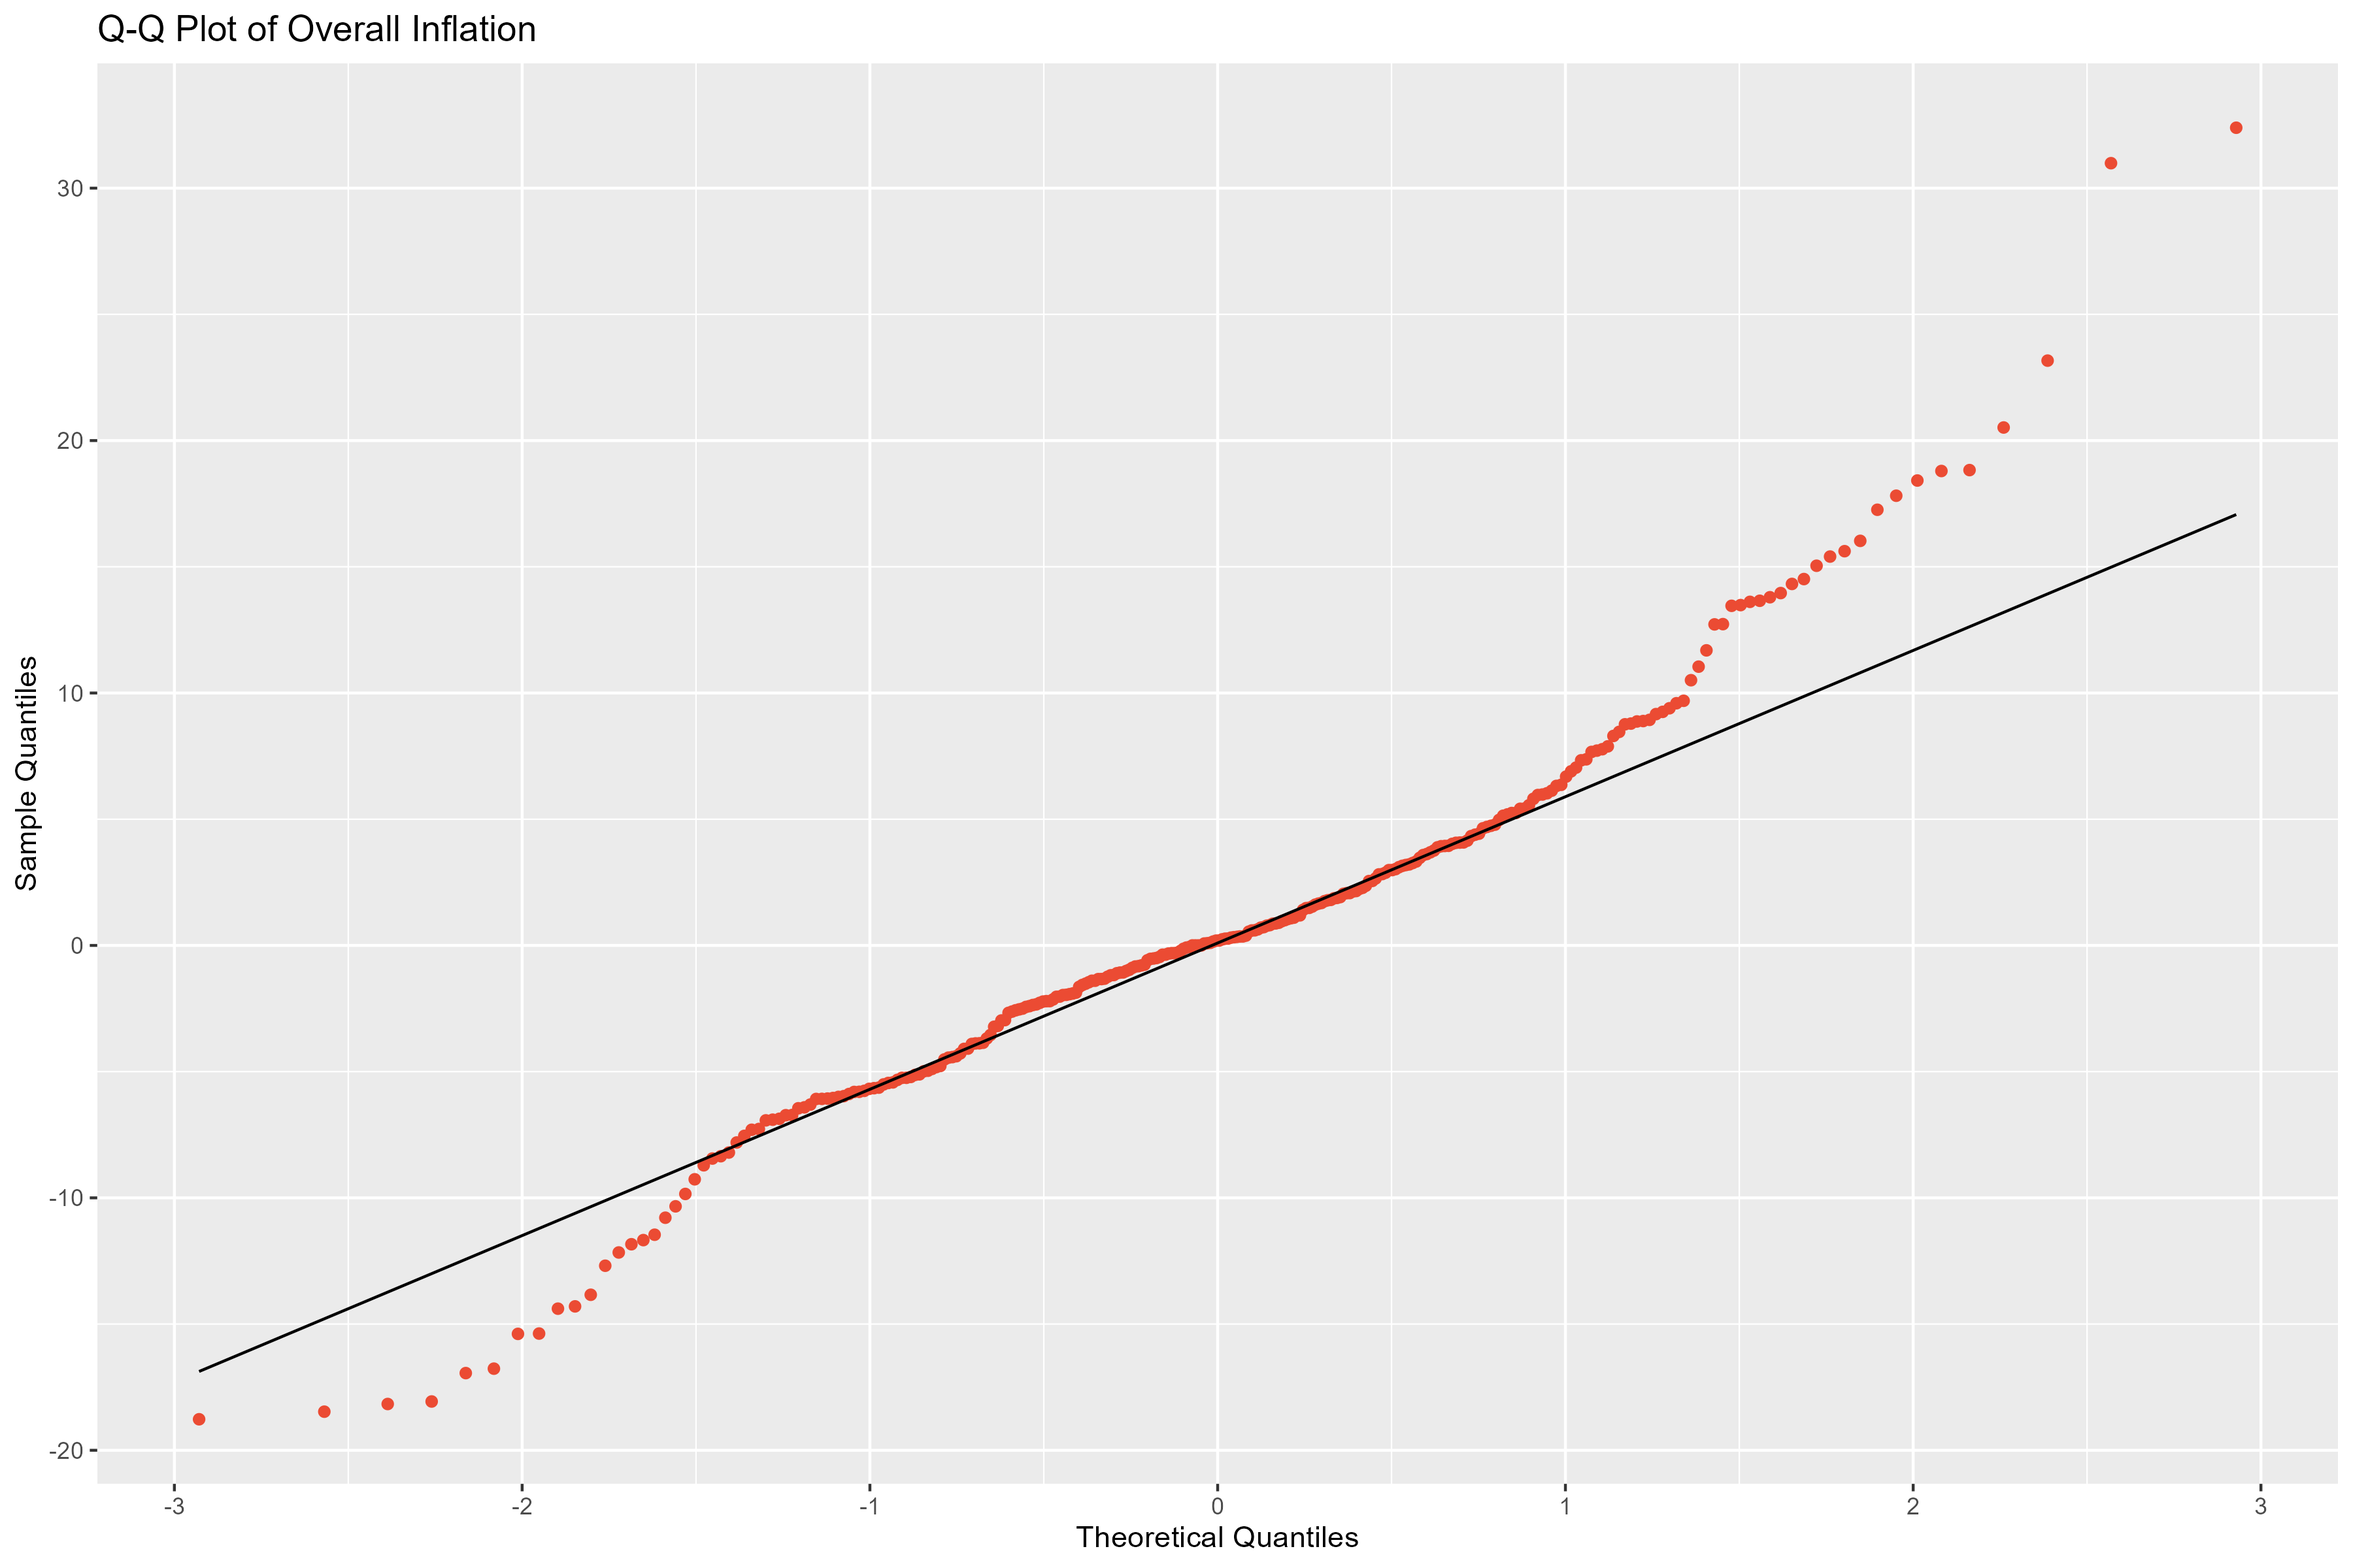
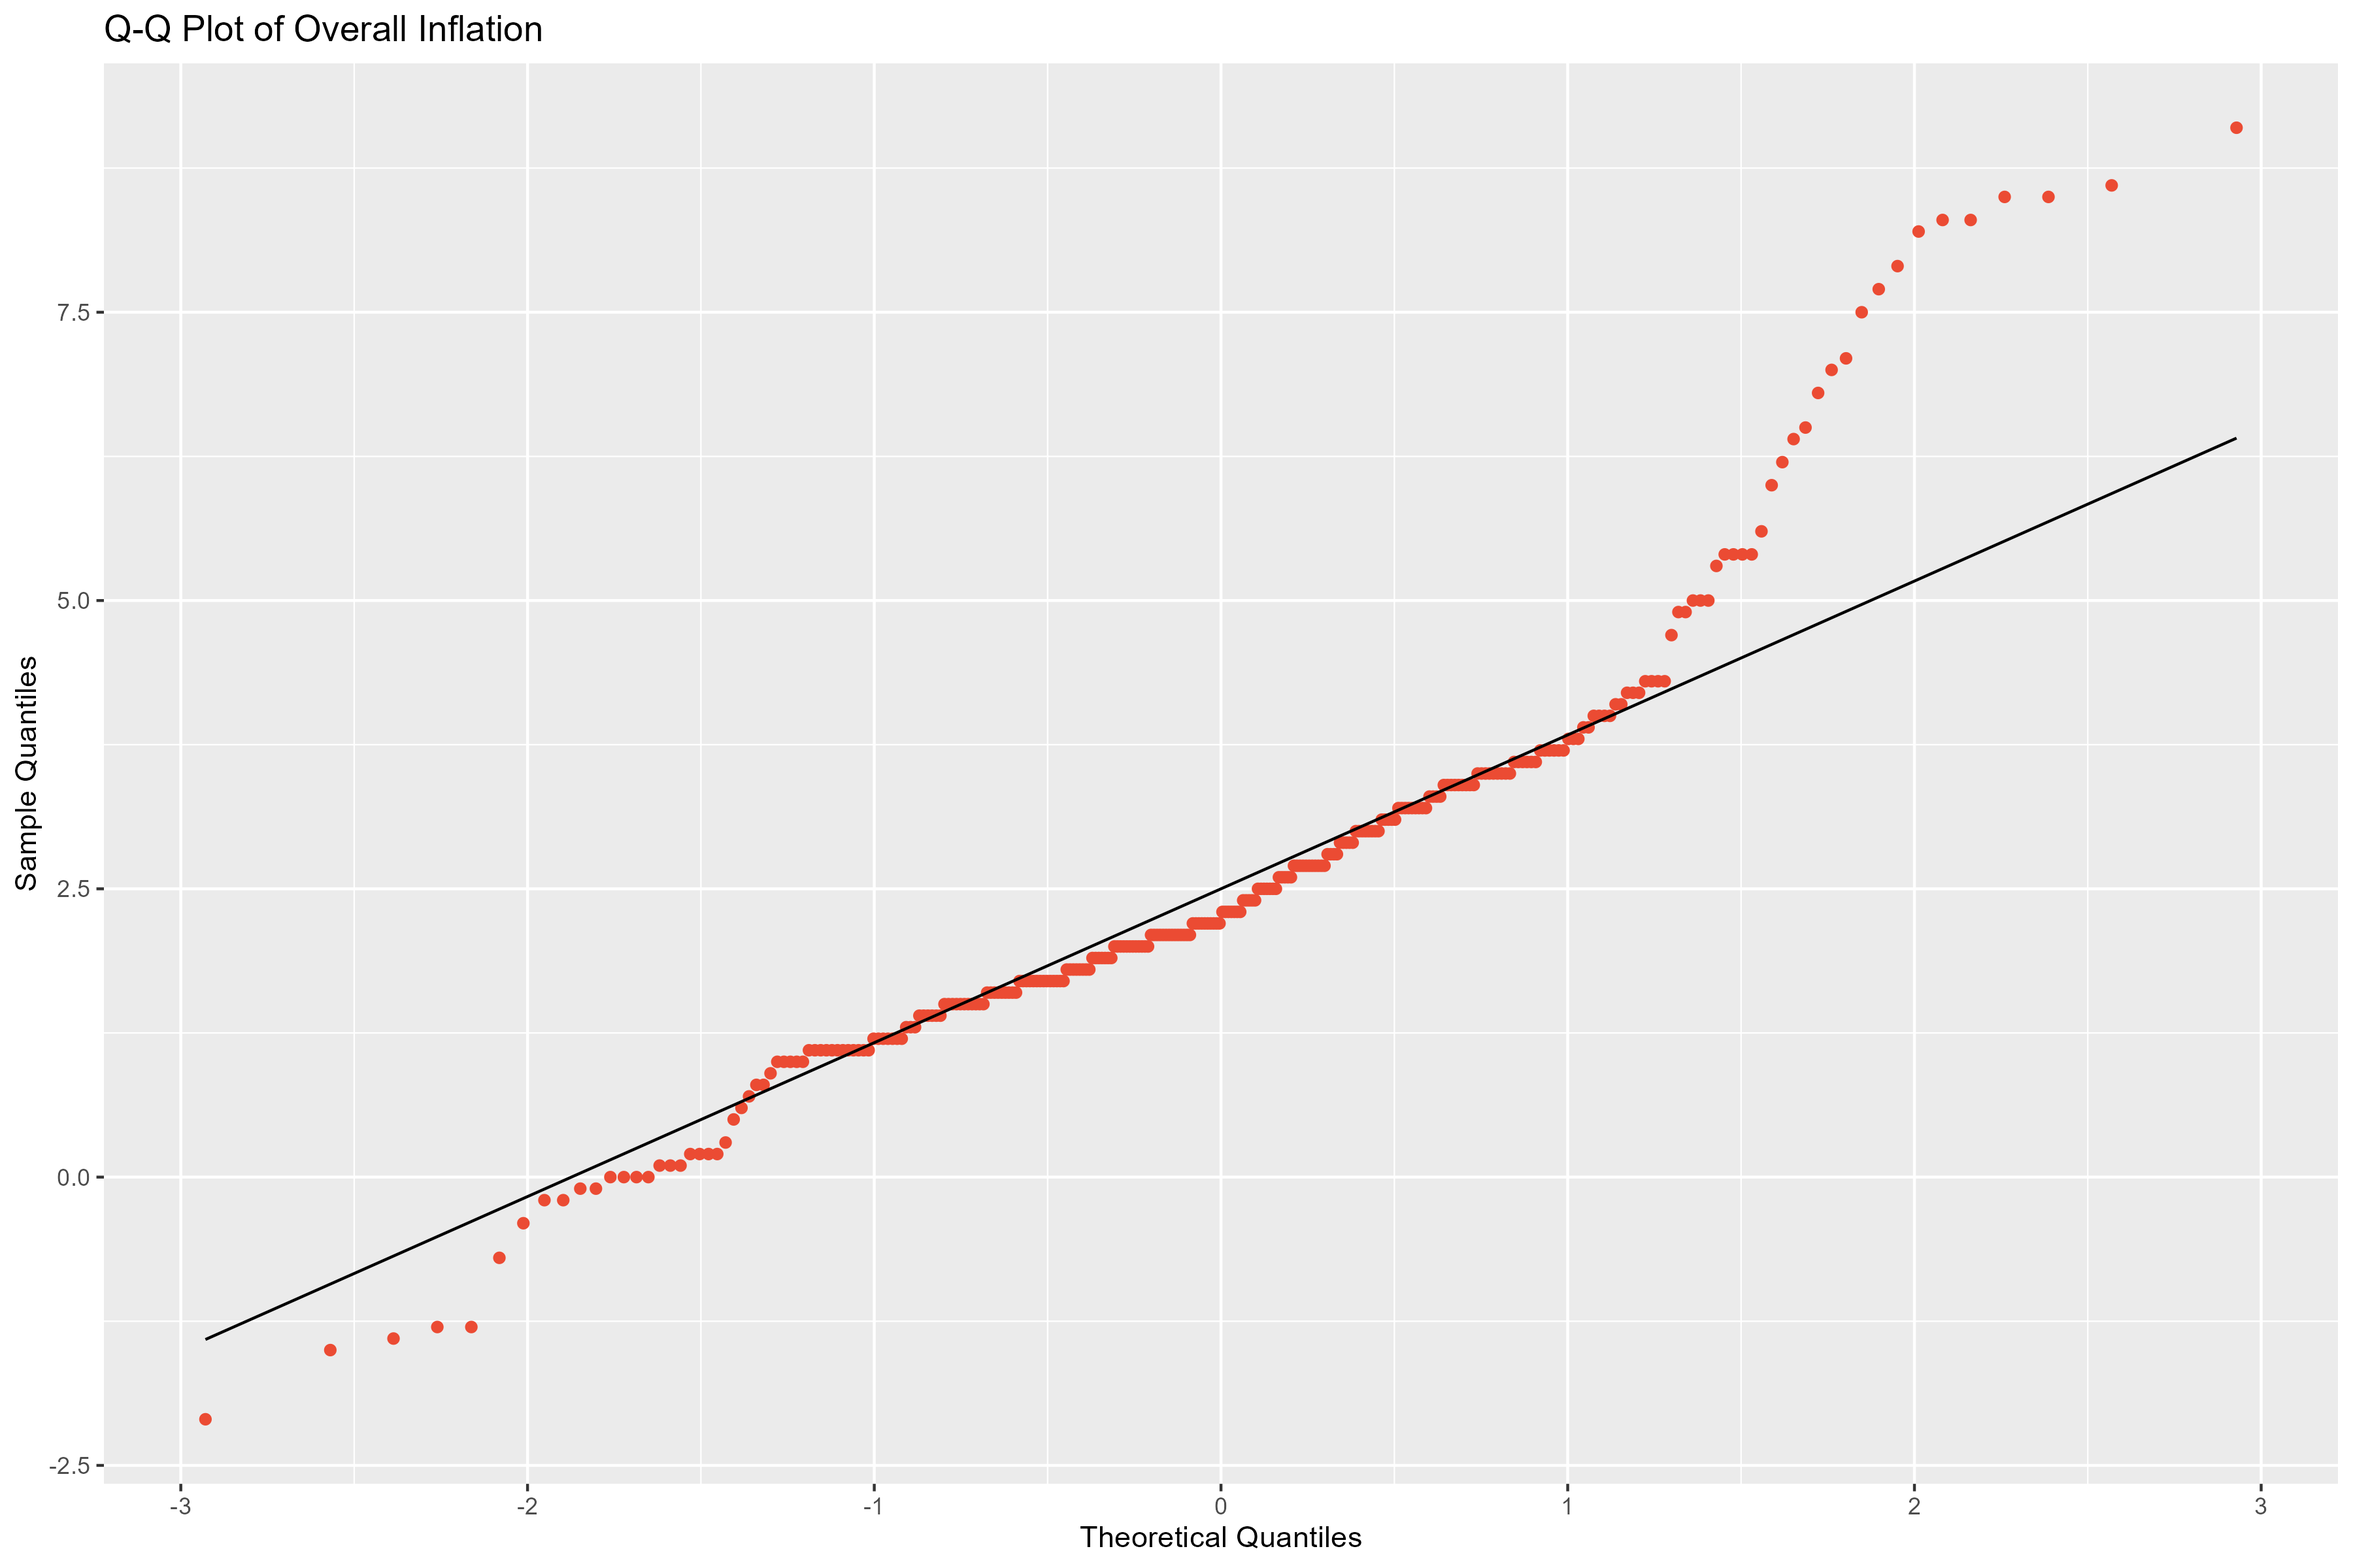
Corrected data selection and reran files

diff --git a/Data Testing/Normality/Normality-Tests-and-Graphs.md b/Data Testing/Normality/Normality-Tests-and-Graphs.md
@@ -1,6 +1,5 @@
 Normality test
 ================
-2024-08-01
 
 ## Overall Inflation Plots
 
@@ -18,7 +17,7 @@ Normality test
     ##  Shapiro-Wilk normality test
     ## 
     ## data:  inflation_long$Overall_Inflation
-    ## W = 0.96006, p-value = 3.193e-07
+    ## W = 0.92195, p-value = 2.869e-11
 
 ### Original No Outliers
 
@@ -26,20 +25,20 @@ Normality test
     ##  Shapiro-Wilk normality test
     ## 
     ## data:  inflation_long_no_outliers$Overall_Inflation_no_outliers
-    ## W = 0.98663, p-value = 0.011
+    ## W = 0.98797, p-value = 0.02248
 
 ### Original Egg Inflation
 
     ## 
     ##  Shapiro-Wilk normality test
     ## 
-    ## data:  inflation_long$Egg_Inflation_Dif
-    ## W = 0.96048, p-value = 3.624e-07
+    ## data:  inflation_long$Egg_Inflation
+    ## W = 0.96006, p-value = 3.193e-07
 
 ### Egg Inflation No Outliers
 
     ## 
     ##  Shapiro-Wilk normality test
     ## 
-    ## data:  inflation_long__egg_no_outliers$Egg_Inflation_Dif_no_outliers
-    ## W = 0.99044, p-value = 0.0691
+    ## data:  inflation_long__egg_no_outliers$Egg_Inflation_no_outliers
+    ## W = 0.98663, p-value = 0.011
